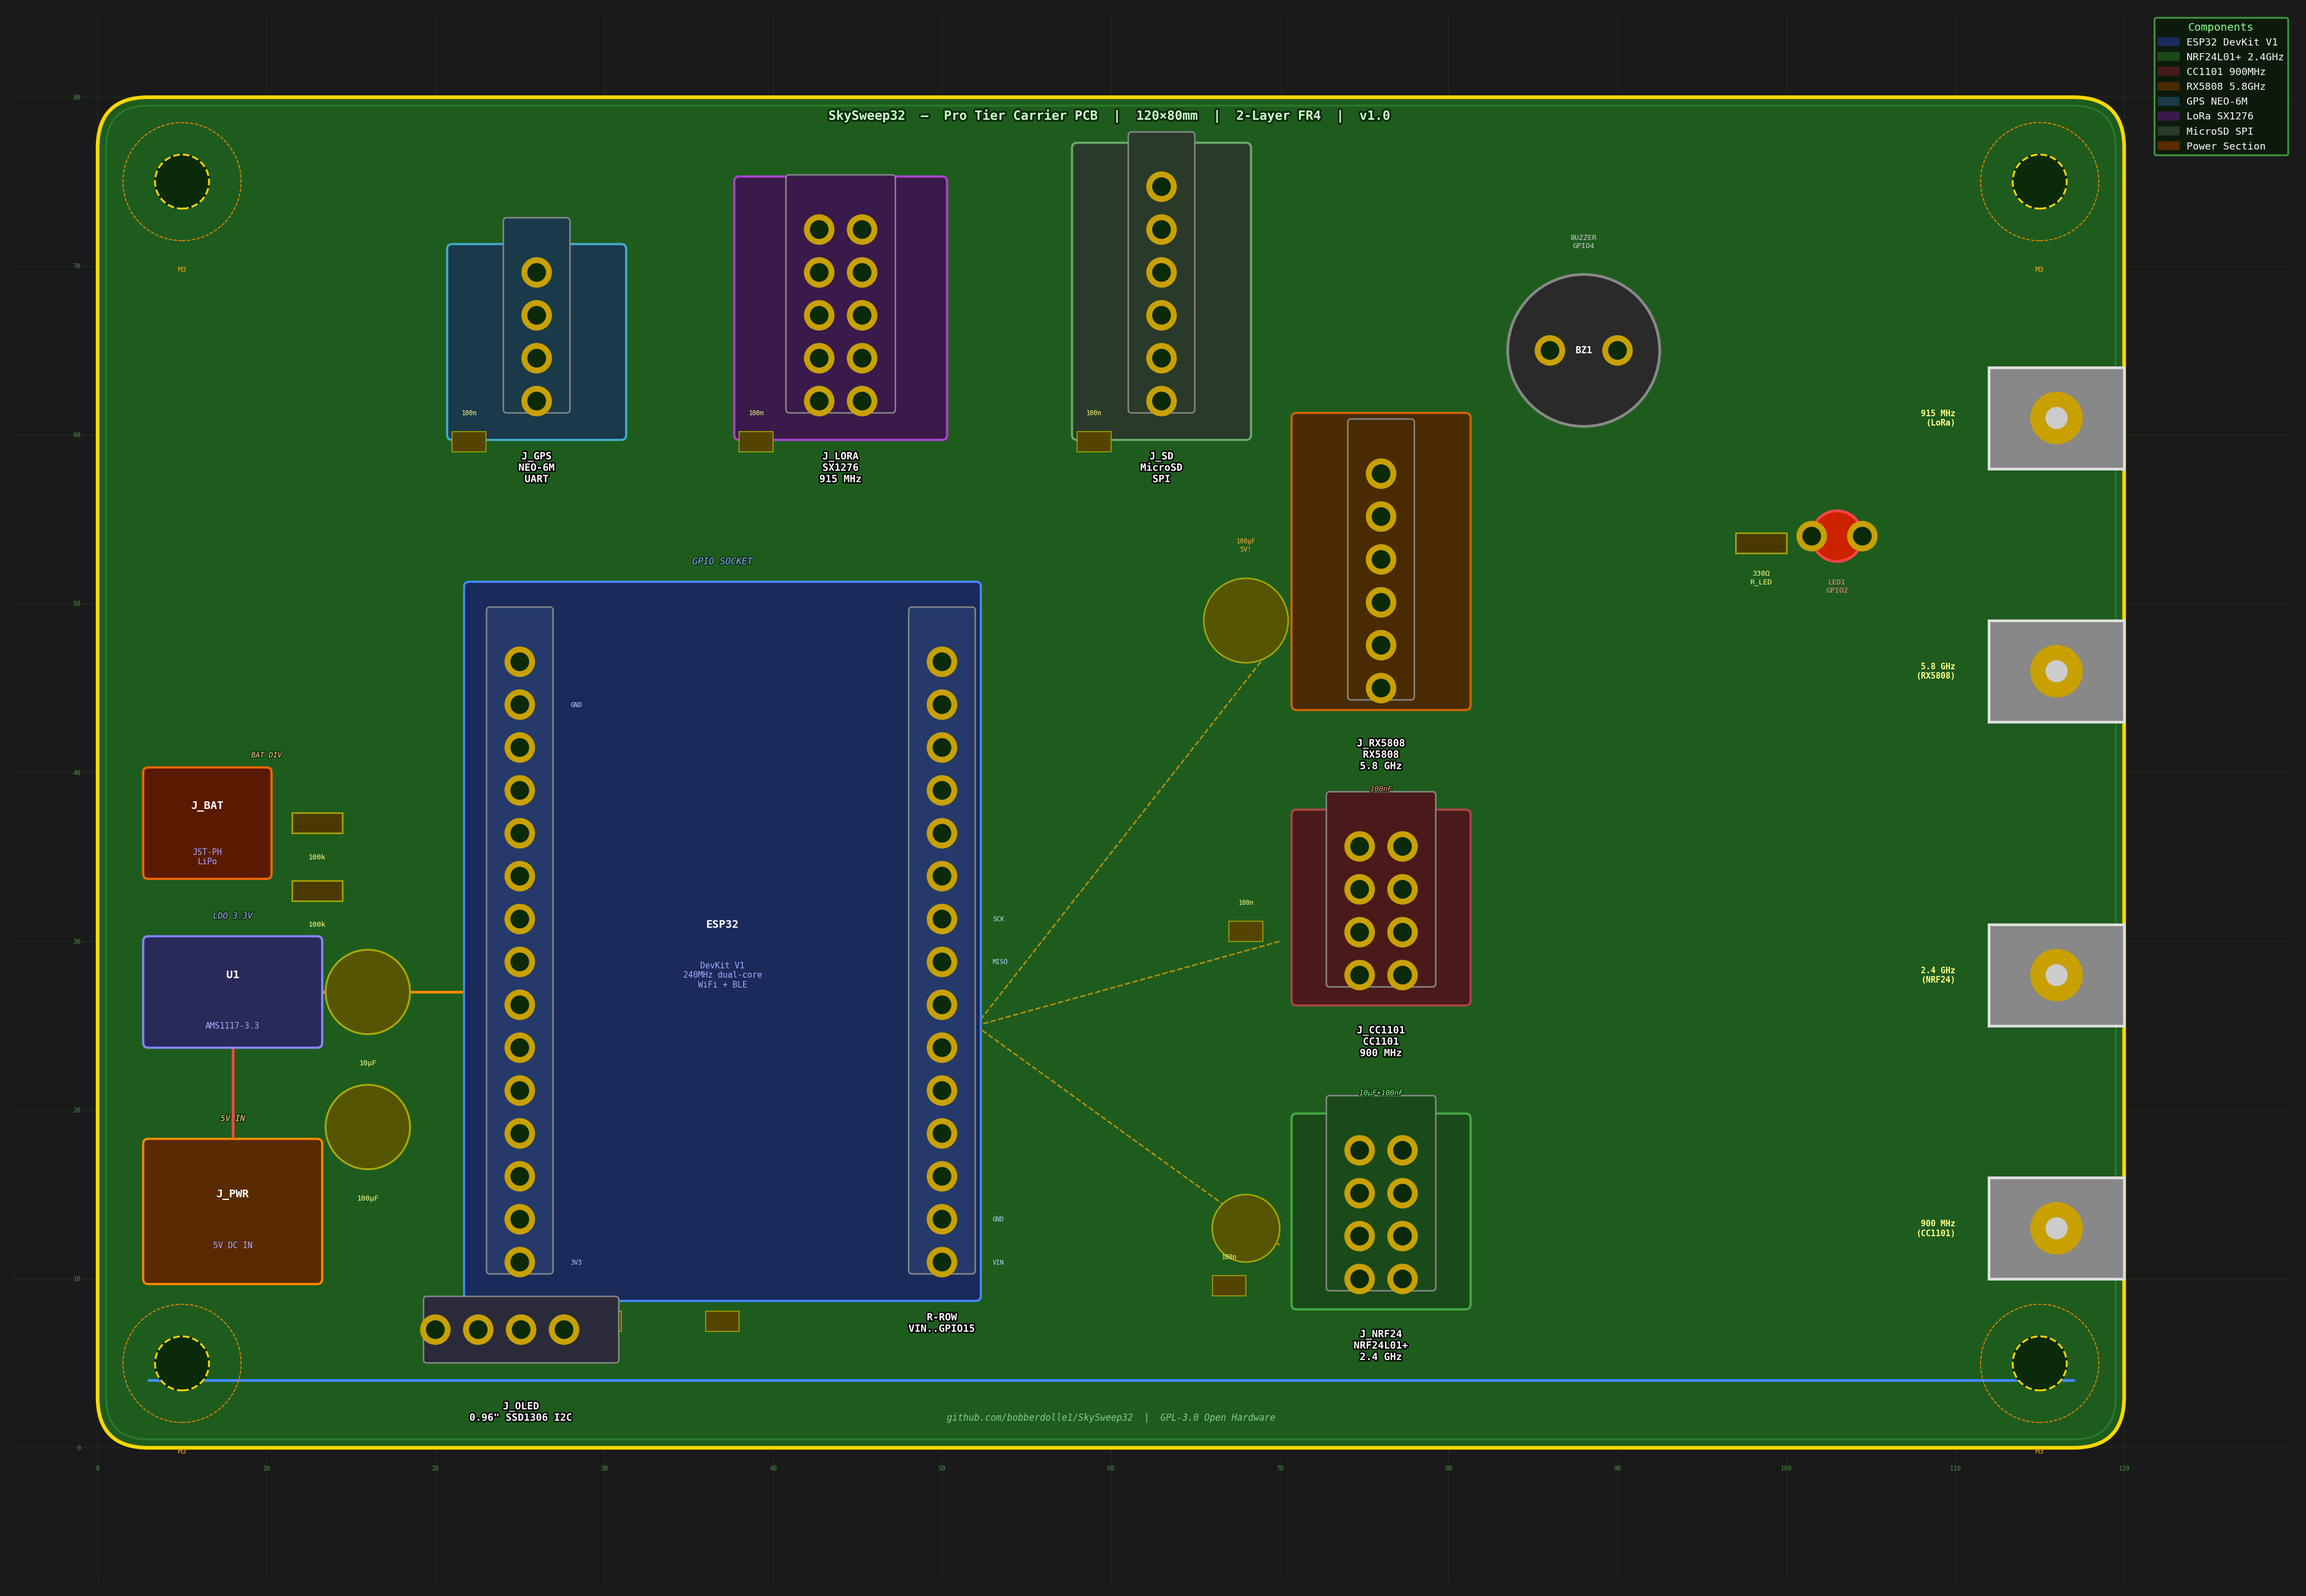
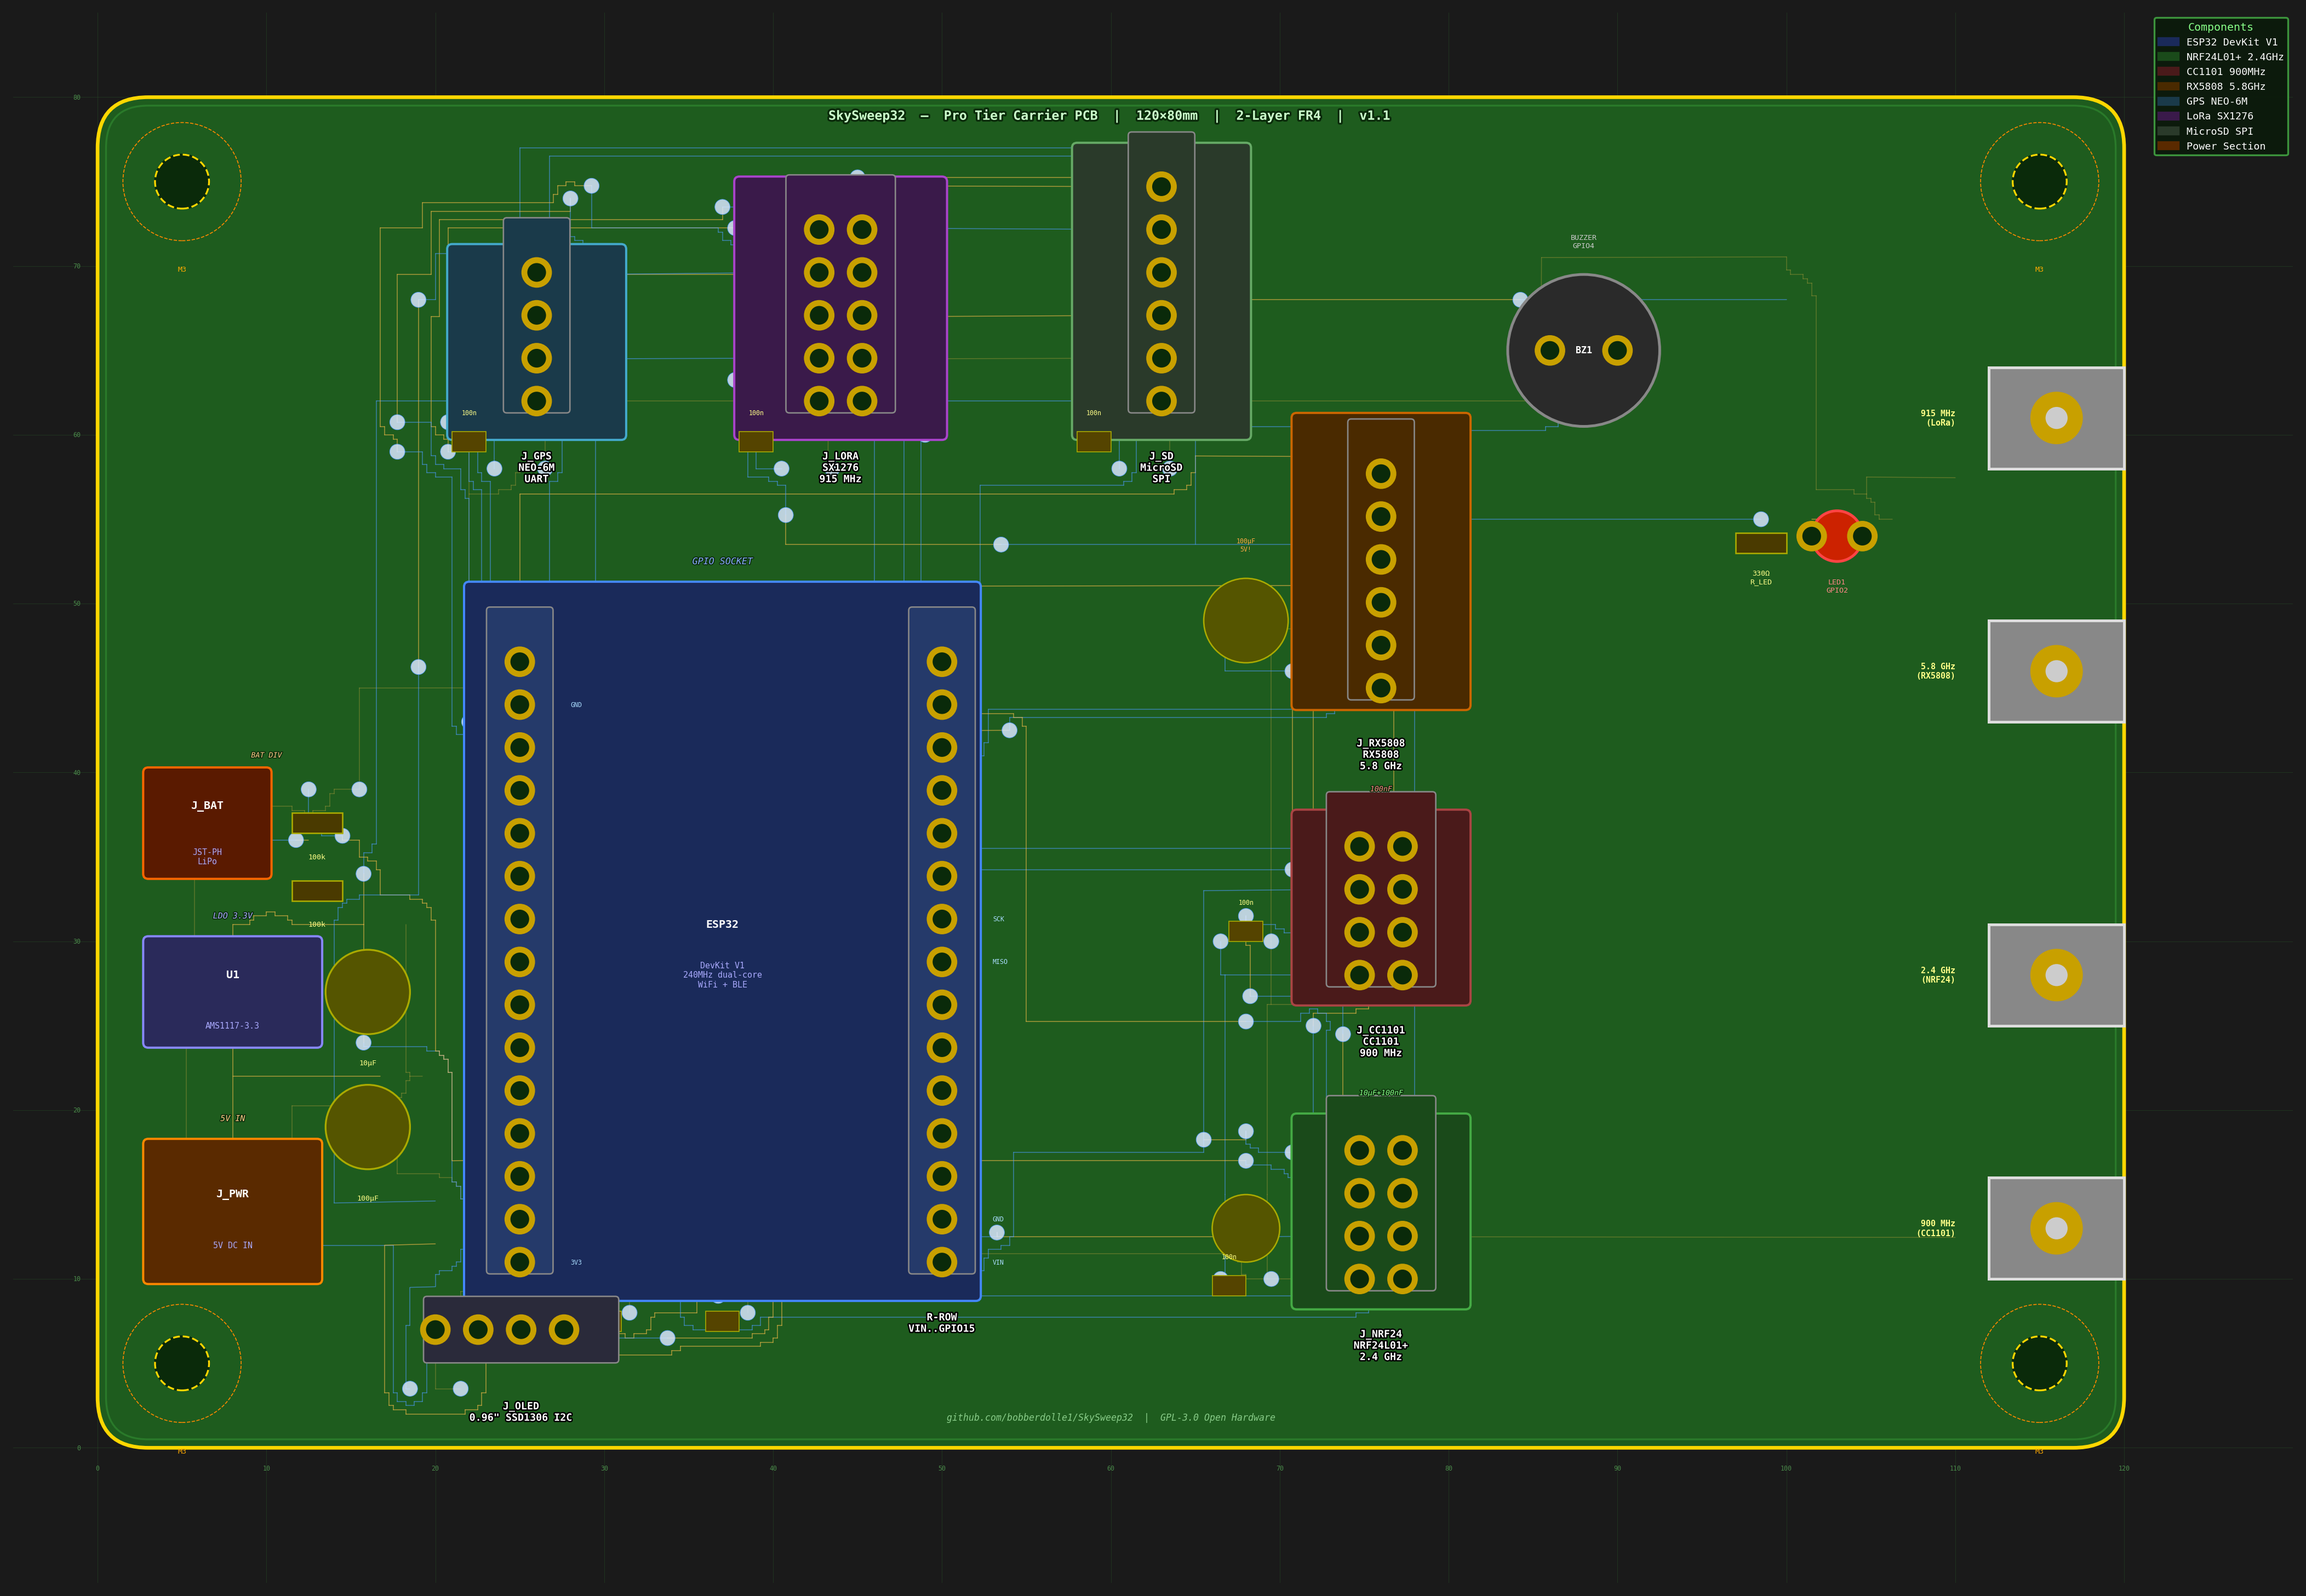
fix: render actual PCB routes in preview

diff --git a/hardware/render_pcb.py b/hardware/render_pcb.py
@@ -17,6 +17,7 @@ hardcoded to a single Windows path).
 """
 
 import argparse
+import re
 from pathlib import Path
 
 import matplotlib.pyplot as plt
@@ -25,6 +26,16 @@ import matplotlib.patheffects as pe
 
 # Board dimensions (mm) — must match build_kicad.py.
 W, H = 120, 80
+
+_NUMBER = r"[-+]?(?:\d+(?:\.\d*)?|\.\d+)(?:[eE][-+]?\d+)?"
+_SEGMENT_RE = re.compile(
+    rf'\(segment\s+\(start\s+({_NUMBER})\s+({_NUMBER})\)\s+'
+    rf'\(end\s+({_NUMBER})\s+({_NUMBER})\).*?'
+    rf'\(layer\s+"(F\.Cu|B\.Cu)"\).*?\(net\s+(\d+)\)'
+)
+_VIA_RE = re.compile(
+    rf'\(via\s+\(at\s+({_NUMBER})\s+({_NUMBER})\).*?\(net\s+(\d+)\)'
+)
 
 _STROKE_DARK = [pe.withStroke(linewidth=1.5, foreground='black')]
 _STROKE_SILK = [pe.withStroke(linewidth=1, foreground='#0a2a0a')]
@@ -136,15 +147,51 @@ def _small_cap(ax, x, y, label='100n'):
     ax.text(x, y + 1.5, label, color='#ffff88', ha='center', va='bottom', fontsize=3.5)
 
 
+def _read_board_routes(pcb_path):
+    """Read actual copper segments and vias from a generated KiCad PCB."""
+    if pcb_path is None or not pcb_path.exists():
+        return [], []
+
+    segments = []
+    vias = []
+    for line in pcb_path.read_text(encoding='utf-8', errors='replace').splitlines():
+        segment = _SEGMENT_RE.search(line)
+        if segment:
+            x1, y1, x2, y2, layer, net = segment.groups()
+            segments.append((float(x1), float(y1), float(x2), float(y2), layer, int(net)))
+            continue
+        via = _VIA_RE.search(line)
+        if via:
+            x, y, net = via.groups()
+            vias.append((float(x), float(y), int(net)))
+    return segments, vias
+
+
+def _draw_board_routes(ax, pcb_path):
+    """Overlay generated PCB routing so the preview matches the source board."""
+    segments, vias = _read_board_routes(pcb_path)
+    for x1, y1, x2, y2, layer, net in segments:
+        color = '#ffbf4a' if layer == 'F.Cu' else '#4d9cff'
+        alpha = 0.28 if net == 1 else 0.62
+        ax.plot([x1, x2], [y1, y2], color=color, linewidth=0.45,
+                alpha=alpha, zorder=1, solid_capstyle='round')
+    for x, y, _ in vias:
+        ax.add_patch(patches.Circle(
+            (x, y), 0.45, facecolor='#d9e7ff', edgecolor='#4d9cff',
+            linewidth=0.3, alpha=0.85, zorder=2))
+    return len(segments), len(vias)
+
+
 # ── SCENE ────────────────────────────────────────────────────────────────────────
 
-def draw(ax):
-    """Draw the full board layout onto ``ax``."""
+def draw(ax, pcb_path=None):
+    """Draw the stylized board layout and actual generated copper routes."""
     # Board outline + edge highlight
     ax.add_patch(patches.FancyBboxPatch((0, 0), W, H, boxstyle="round,pad=0,rounding_size=3",
                                         linewidth=2, edgecolor='#ffd700', facecolor='#1e5c1e'))
     ax.add_patch(patches.FancyBboxPatch((0.5, 0.5), W - 1, H - 1, boxstyle="round,pad=0,rounding_size=2.5",
                                         linewidth=1, edgecolor='#2a7a2a', facecolor='none'))
+    _draw_board_routes(ax, pcb_path)
 
     # Mounting holes
     for mx, my in [(5, 5), (115, 5), (5, 75), (115, 75)]:
@@ -239,17 +286,10 @@ def draw(ax):
     # OLED header 1×4 (top)
     header_1xN(ax, 'J_OLED\n0.96" SSD1306 I2C', 20, 7, 4, color='#2a2a3a', horiz=True)
 
-    # Power & GND traces
-    power_trace(ax, 8, 14, 8, 24, '#ff4444', 1.5)     # 5V: jack → LDO in
-    power_trace(ax, 13, 27, 22, 27, '#ff8800', 1.5)   # 3.3V bus
-    power_trace(ax, 22, 27, 22, 9, '#ff8800', 1.5)    # up to ESP32
-    gnd_trace(ax, 3, 4, 117, 4, 1.5)                  # GND bus
-    spi_trace(ax, 52, 25, 70, 12)                     # MOSI → NRF24
-    spi_trace(ax, 52, 25, 70, 30)                     # MOSI → CC1101
-    spi_trace(ax, 52, 25, 70, 48)                     # MOSI → RX5808
+    # Copper routing is overlaid from the generated PCB near the board outline.
 
     # Title + credit
-    ax.text(60, 78.5, 'SkySweep32  —  Pro Tier Carrier PCB  |  120×80mm  |  2-Layer FR4  |  v1.0',
+    ax.text(60, 78.5, 'SkySweep32  —  Pro Tier Carrier PCB  |  120×80mm  |  2-Layer FR4  |  v1.1',
             color='#ccffcc', ha='center', va='bottom', fontsize=7, weight='bold',
             path_effects=[pe.withStroke(linewidth=2, foreground='#0a2a0a')])
     ax.text(60, 1.5, 'github.com/bobberdolle1/SkySweep32  |  GPL-3.0 Open Hardware',
@@ -283,14 +323,14 @@ def draw(ax):
         ax.text(-1, gy, f'{gy}', color='#4a8a4a', ha='right', va='center', fontsize=3.5)
 
 
-def render(out_path, dpi=180):
+def render(out_path, dpi=180, pcb_path=None):
     plt.rcParams['font.family'] = 'monospace'
     fig, ax = plt.subplots(figsize=(18, 12))
     fig.patch.set_facecolor('#1a1a1a')
     ax.set_facecolor('#1a4a1a')
     ax.set_aspect('equal')
 
-    draw(ax)
+    draw(ax, pcb_path=pcb_path)
 
     fig.tight_layout(pad=0.2)
     fig.savefig(out_path, dpi=dpi, bbox_inches='tight', facecolor='#1a1a1a', edgecolor='none')
@@ -301,11 +341,14 @@ def render(out_path, dpi=180):
 def main(argv=None):
     parser = argparse.ArgumentParser(description="Render the SkySweep32 Pro PCB layout preview.")
     default_out = Path(__file__).resolve().parent / "pcb_layout_preview.png"
+    default_pcb = Path(__file__).resolve().parent / "skysweep32_pro.kicad_pcb"
     parser.add_argument("-o", "--output", type=Path, default=default_out,
                         help=f"output PNG path (default: {default_out.name} next to this script)")
+    parser.add_argument("--pcb", type=Path, default=default_pcb,
+                        help=f"source PCB (default: {default_pcb.name})")
     parser.add_argument("--dpi", type=int, default=180, help="output resolution (default: 180)")
     args = parser.parse_args(argv)
-    render(args.output, dpi=args.dpi)
+    render(args.output, dpi=args.dpi, pcb_path=args.pcb)
 
 
 if __name__ == "__main__":

diff --git a/CHANGELOG.md b/CHANGELOG.md
@@ -6,6 +6,8 @@ The format is based on [Keep a Changelog](https://keepachangelog.com/en/1.0.0/),
 and this project adheres to [Semantic Versioning](https://semver.org/spec/v2.0.0.html).
 
 ## [Unreleased]
+### Fixed
+- **PCB preview fidelity**: `render_pcb.py` now overlays the actual generated copper segments and vias from `skysweep32_pro.kicad_pcb` instead of showing only illustrative hardcoded traces; the preview revision is synchronized to PCB v1.1.
 
 ## [0.6.1] - 2026-08-09
 

diff --git a/hardware/README.md b/hardware/README.md
@@ -56,6 +56,8 @@ readable `NET["SPI_MOSI"]`-style lookup and the layout is assembled in
 python3 hardware/render_pcb.py                   # writes hardware/pcb_layout_preview.png
 python3 hardware/render_pcb.py -o preview.png --dpi 240
 ```
+The renderer reads the generated PCB by default and overlays its actual copper
+segments and vias.  Use `--pcb path/to/board.kicad_pcb` to preview another board.
 
 ## Enclosure
 
